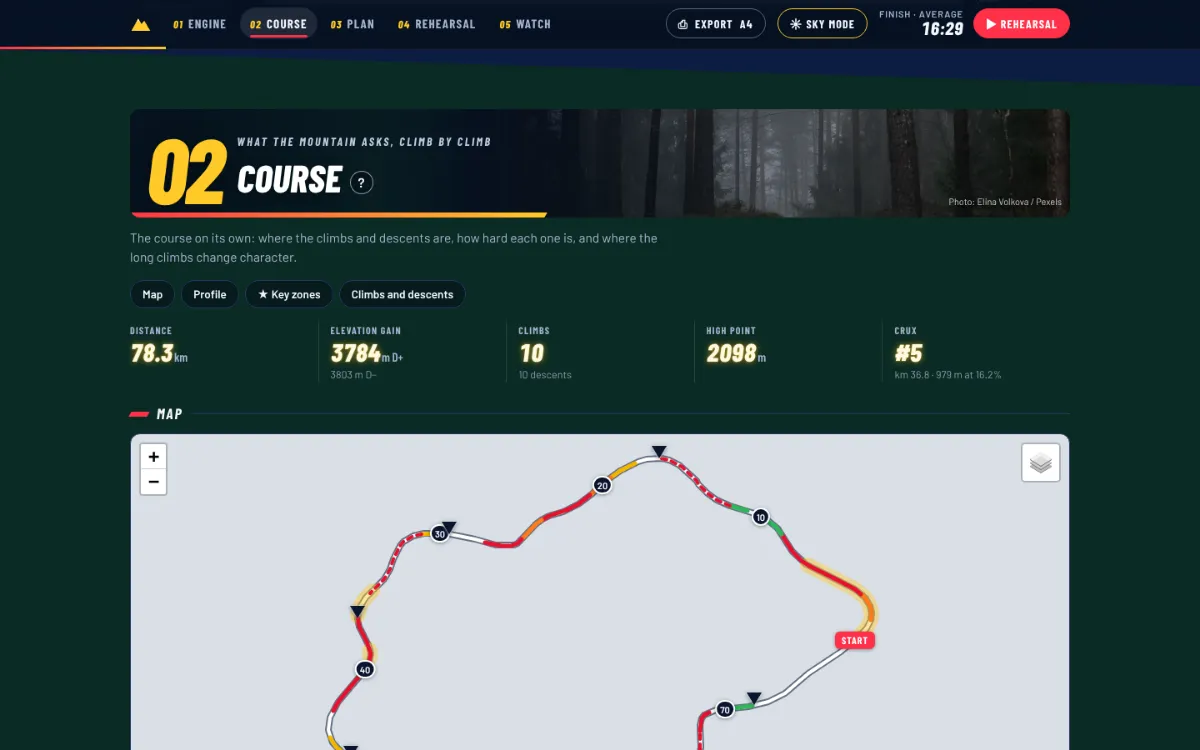
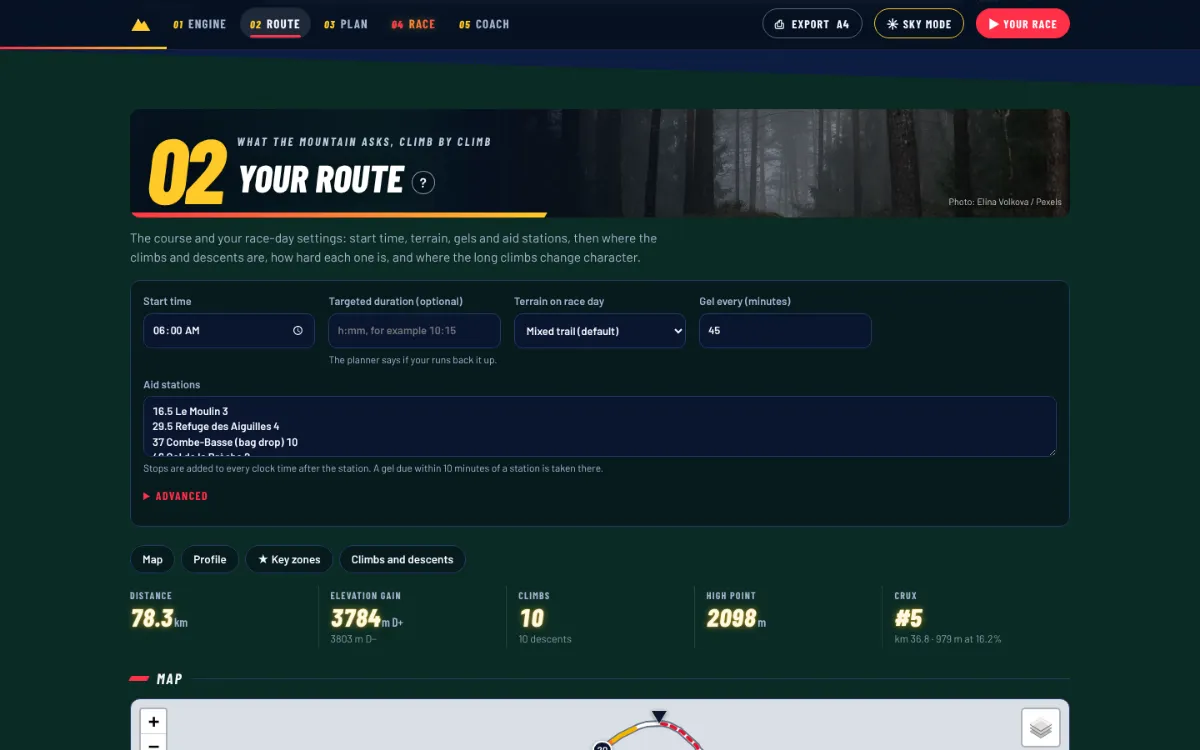
Move the race-day settings from Your plan to Your route
Start time, targeted duration, terrain, gels, aid stations and the
Advanced block now sit at the top of 02 Your route. 03 Your plan keeps
only the computed plan (and its error line). Guide text, course/plan
guide screenshots, the A4 comment and the changelog follow.

Claude-Session: https://claude.ai/code/session_01PWCzbQZ8VkkJY9cKZi5hJ8

diff --git a/src/site/guide.js b/src/site/guide.js
@@ -16,15 +16,15 @@ export const GUIDE = [
     sections: [
       { id: "engine", sec: "s1", num: "01", name: "Engine", shot: "engine",
         what: "What your own runs say about you: your pace on each gradient band, fresh and tired, when you start hiking, and how fast you fade.",
-        how: ["Read the pace bands: the planner uses them for every 10 m of the race.", "Check the hiking threshold: the gradient where your cadence says you switch to walking.", "Add several runs: recent ones count more (half-life in the Plan settings)."],
+        how: ["Read the pace bands: the planner uses them for every 10 m of the race.", "Check the hiking threshold: the gradient where your cadence says you switch to walking.", "Add several runs: recent ones count more (half-life in the Route settings, under Advanced)."],
         tip: "Use runs on hilly ground at a steady, honest effort. A flat race-pace 10K says little about a 3,000 m ultra." },
       { id: "course", sec: "s2", num: "02", name: "Course", shot: "course",
-        what: "The race on its own, before knowing who runs it: every climb and descent, how hard each one is, and where long climbs change character.",
-        how: ["Drag across the profile to zoom on a stretch.", "Switch between the Climbs and Descents lists: each is scored and coloured from easy to hard.", "Long climbs are cut into sections when their gradient changes, so you see the steep walls inside."],
+        what: "The race and your race-day settings: start time, terrain, gels and aid stations, then every climb and descent, how hard each one is, and where long climbs change character.",
+        how: ["Set the start time, the terrain on the day, how often you take a gel and your aid stations (km, name, minutes stopped); Advanced holds the checkpoint distance, hiking threshold and fade.", "Type a targeted finish time: the planner says if your runs back it up.", "Drag across the profile to zoom on a stretch.", "Switch between the Climbs and Descents lists: each is scored and coloured from easy to hard.", "Long climbs are cut into sections when their gradient changes, so you see the steep walls inside."],
         tip: "Learn the order of the three hardest climbs. That is the race you will run in your head." },
       { id: "plan", sec: "s3", num: "03", name: "Plan", shot: "plan",
-        what: "Your engine on this course, with your settings: finish time, clock time at every checkpoint, how to run each climb and descent, when to eat.",
-        how: ["Set the start time, the terrain on the day and your aid stations (km, name, minutes stopped).", "Type a targeted finish time: the planner says if your runs back it up.", "Pick a scenario (best, average, cautious) and read the checkpoint table, the gels and the heart-rate guide."],
+        what: "What the planner computes from your engine and the route settings: finish time, clock time at every checkpoint, the pace strategy for each climb and descent, when to eat.",
+        how: ["The settings are in Route: change one there and the plan redraws here.", "Pick a scenario (best, average, cautious) and read the checkpoint table, the gels and the heart-rate guide."],
         tip: "Plan on the average scenario, keep the best one for a great day. The model is usually within 5 to 10%." },
       { id: "rehearsal", sec: "s4", num: "04", name: "Rehearsal", shot: "rehearsal",
         what: "Live the race before you run it: press play and follow yourself along the course at your predicted pace, with what to do on every section.",

diff --git a/src/ui/main.js b/src/ui/main.js
@@ -241,13 +241,7 @@ $("#app").innerHTML = `
 
 <section id="s2" class="plan-only">
   ${head("02", "What the mountain asks, climb by climb", "Your route")}
-  <p class="sec-intro">The course on its own: where the climbs and descents are, how hard each one is, and where the long climbs change character.</p>
-  <div id="s2body"></div>
-</section>
-
-<section id="s3" class="plan-only">
-  ${head("03", "Clock times, pace, gels, where to walk", "Your plan")}
-  <p class="sec-intro">Your engine on this course, with your race-day settings: finish time, clock time at every checkpoint, how to run each climb and descent, when to eat.</p>
+  <p class="sec-intro">The course and your race-day settings: start time, terrain, gels and aid stations, then where the climbs and descents are, how hard each one is, and where the long climbs change character.</p>
   <div class="panel">
     <div class="fields">
       <label class="f">Start time<input type="time" id="startTime"></label>
@@ -268,8 +262,14 @@ $("#app").innerHTML = `
         <label class="f">Faster on gentle descents (%)<input type="number" id="descentBoost" step="1" min="0" max="10"><span class="hint">Only if your quads can take it. 0 is safe.</span></label>
       </div>
     </details>
-    <div id="planErr"></div>
   </div>
+  <div id="s2body" style="margin-top:22px"></div>
+</section>
+
+<section id="s3" class="plan-only">
+  ${head("03", "Clock times, pace, gels, where to walk", "Your plan")}
+  <p class="sec-intro">What the planner computes from your engine and the route settings: finish time, clock time at every checkpoint, the pace strategy for each climb and descent, when to eat.</p>
+  <div id="planErr"></div>
   <div id="s3body" style="margin-top:22px"></div>
 </section>
 

diff --git a/src/ui/print.js b/src/ui/print.js
@@ -292,7 +292,7 @@ function p4PlanSheet({ plan, sid, raceName, effort, settings }) {
   ];
   // The three scenarios side by side, the chosen one highlighted.
   const scen = SCENARIOS.map((s) => `<span class="${s.id === sid ? "on" : ""}">${s.label} <b>${hm(plan.scenarios[s.id].finishSec)}</b> <small>finish ${clock(st, plan.scenarios[s.id].finishSec)}</small></span>`).join("");
-  // The targeted duration typed in 03 Plan, judged against the scenarios (judgeTarget, core/plan.js).
+  // The targeted duration typed in 02 Route, judged against the scenarios (judgeTarget, core/plan.js).
   const tgt = judgeTarget(plan, parseDuration(settings.targetTime));
   const VERDICT = { "out-of-reach": "Not backed by your runs", ambitious: "Ambitious", realistic: "Realistic", comfortable: "Comfortable" };
   const tgtHtml = tgt ? `<div class="p4-scen p4-tgt">Targeted duration <b>${hm(tgt.targetSec)}</b> · ${VERDICT[tgt.verdict]} · needs ${mmss(tgt.paceSec)}/km, stops included</div>` : "";

diff --git a/src/site/changelog.js b/src/site/changelog.js
@@ -2,6 +2,7 @@
 // technical detail). The first entry is the current version: the footer shows it on every page.
 
 export const CHANGELOG = [
+  { v: "0.41", date: "2026-10-16", items: ["Race-day settings (start time, targeted duration, terrain, gels, aid stations and Advanced) moved to Your route. Your plan now only shows what is computed: sections, clock times and pace strategy."] },
   { v: "0.38", date: "2026-10-16", items: [
     "Heart rate is no longer read from your GPX files: the only heart data used is the max and resting heart rate you type in your profile.",
     "New Account window (account icon, then Account): name, country flag, a few words and badges, your goals and bests from 5K to 100K, heart rates and weight, and lines of your own data.",
